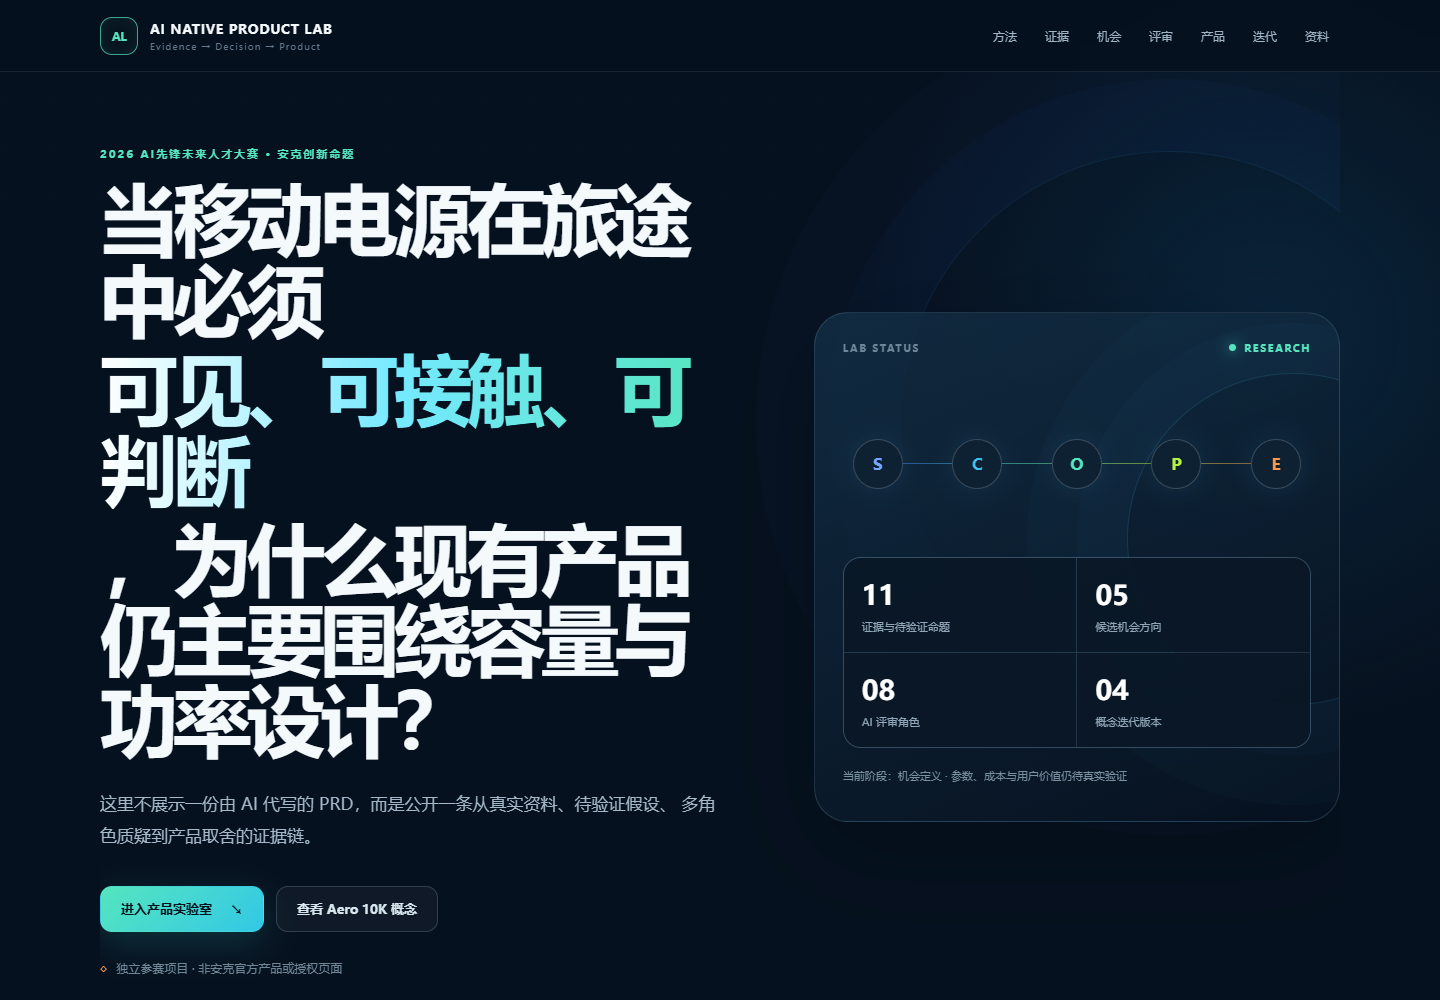
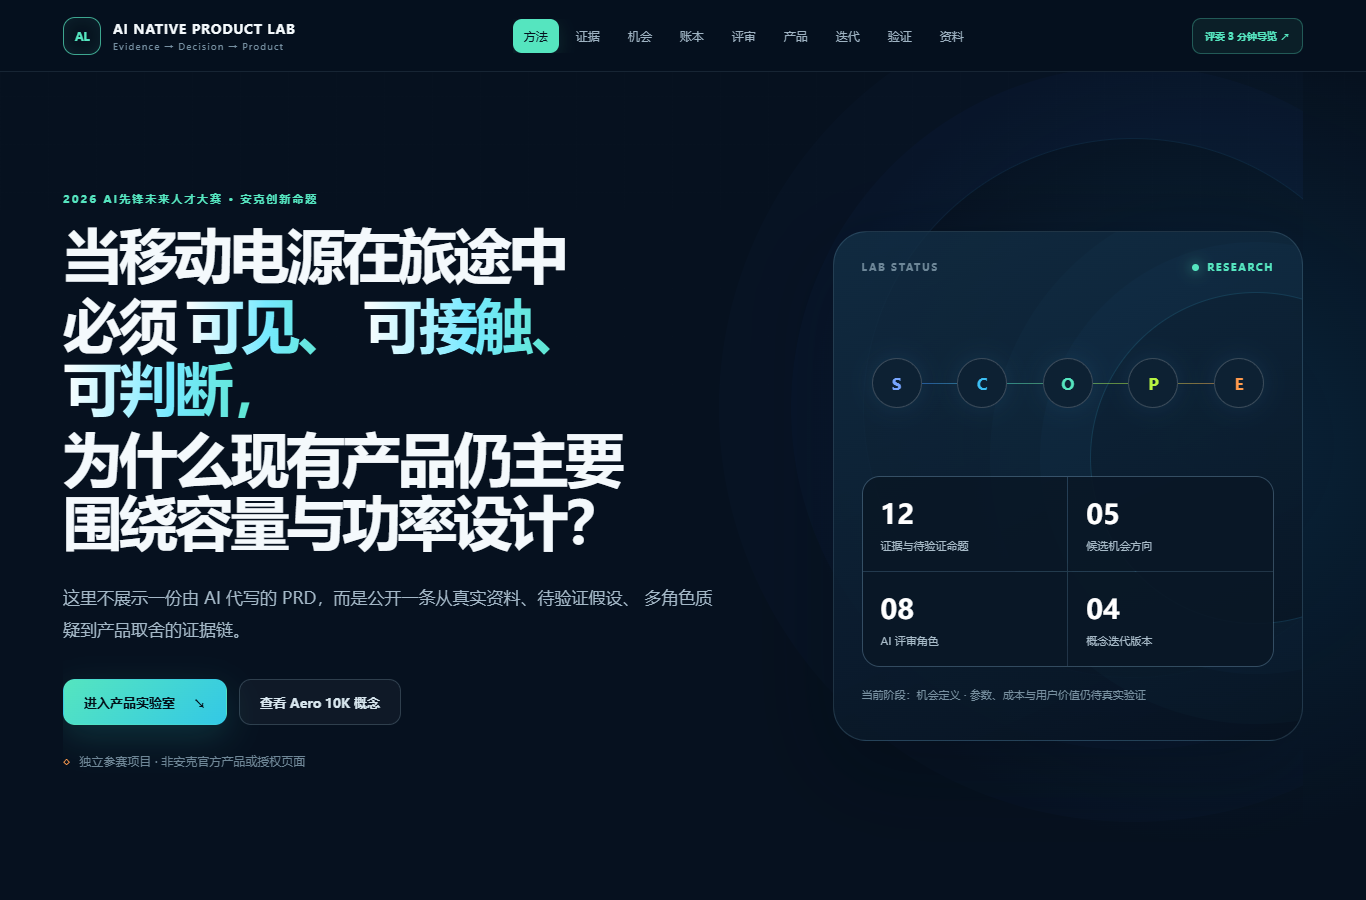
docs: publish credibility evidence and visual audit

diff --git a/src/styles.css b/src/styles.css
@@ -46,11 +46,14 @@ img, svg { max-width: 100%; }
 .main-nav a:hover, .main-nav a:focus-visible { color: white; background: rgba(255,255,255,.06); }
 
 .hero, .section, .site-footer { width: min(1240px, calc(100% - 48px)); margin-inline: auto; }
-.hero { position: relative; display: grid; grid-template-columns: 1.08fr .92fr; align-items: center; gap: clamp(42px, 7vw, 96px); min-height: calc(100svh - 72px); padding-block: 74px; overflow: clip; }
+.hero { position: relative; display: grid; grid-template-columns: 1.2fr .8fr; align-items: center; gap: clamp(36px, 5vw, 64px); min-height: calc(100svh - 72px); padding-block: 74px; overflow: clip; }
 .hero-glow { position: absolute; right: -100px; top: 8%; width: 540px; height: 540px; border: 1px solid rgba(50,150,220,.12); border-radius: 50%; box-shadow: 0 0 0 72px rgba(52,120,255,.026), 0 0 0 144px rgba(52,120,255,.018); pointer-events: none; }
 .eyebrow { margin: 0 0 16px; color: var(--mint); font-size: 11px; font-weight: 800; letter-spacing: .18em; text-transform: uppercase; }
-.hero h1 { max-width: 720px; margin: 0; font-size: clamp(2.5rem, 4.8vw, 4.65rem); line-height: 1.06; letter-spacing: -.05em; }
-.hero h1 span { display: block; margin-block: 8px; background: linear-gradient(90deg, #ffffff 0%, #76e9ff 48%, #55e5bf 100%); background-clip: text; color: transparent; }
+.hero h1 { max-width: 720px; margin: 0; font-size: clamp(2.3rem, 4.3vw, 4.1rem); line-height: 1.08; letter-spacing: -.05em; }
+.hero h1 .hero-line { display: block; }
+.hero h1 .hero-must { display: flex; flex-wrap: wrap; column-gap: .18em; margin-block: 7px; }
+.hero h1 .hero-word-plain, .hero h1 .hero-phrase { display: inline-block; white-space: nowrap; }
+.hero h1 .hero-phrase { background: linear-gradient(90deg, #ffffff 0%, #76e9ff 48%, #55e5bf 100%); background-clip: text; color: transparent; }
 .hero-lead { max-width: 650px; margin: 28px 0 0; color: #a4b8c7; font-size: 17px; line-height: 1.9; }
 .hero-actions { display: flex; flex-wrap: wrap; gap: 12px; margin-top: 34px; }
 .button { display: inline-flex; min-height: 46px; align-items: center; justify-content: center; gap: 18px; padding: 0 20px; border: 1px solid transparent; border-radius: 12px; cursor: pointer; font-weight: 750; font-size: 13px; text-decoration: none; transition: .2s ease; }
@@ -540,7 +543,7 @@ input[type="range"] { accent-color: var(--mint); cursor: pointer; }
 
 @media (max-width: 760px) {
   .tour-launch { width: 100%; margin-top: 8px; }
-  .hero h1 { font-size: clamp(2.1rem, 10vw, 3.25rem); letter-spacing: -.045em; }
+  .hero h1 { font-size: clamp(1.95rem, 8.2vw, 2.15rem); letter-spacing: -.045em; }
   .evidence-counts, .sensitivity-heading, .ledger-truth-banner, .matrix-heading, .validation-disclosure { align-items: flex-start; flex-direction: column; }
   .evidence-counts span, .sensitivity-heading > p { text-align: left; }
   .severity-rubric ol { grid-template-columns: 1fr; }

diff --git a/src/components/Hero.tsx b/src/components/Hero.tsx
@@ -10,10 +10,16 @@ export const Hero = () => (
     <div className="hero-glow" aria-hidden="true" />
     <div className="hero-copy">
       <p className="eyebrow">2026 AI先锋未来人才大赛 · 安克创新命题</p>
-      <h1>
-        当移动电源在旅途中必须
-        <span>可见、可接触、可判断，</span>
-        为什么现有产品仍主要围绕容量与功率设计？
+      <h1 aria-label="当移动电源在旅途中必须可见、可接触、可判断，为什么现有产品仍主要围绕容量与功率设计？">
+        <span className="hero-line" aria-hidden="true">当移动电源在旅途中</span>
+        <span className="hero-line hero-must" aria-hidden="true">
+          <span className="hero-word-plain">必须</span>
+          <span className="hero-phrase">可见、</span>
+          <span className="hero-phrase">可接触、</span>
+          <span className="hero-phrase">可判断，</span>
+        </span>
+        <span className="hero-line" aria-hidden="true">为什么现有产品仍主要</span>
+        <span className="hero-line" aria-hidden="true">围绕容量与功率设计？</span>
       </h1>
       <p className="hero-lead">
         这里不展示一份由 AI 代写的 PRD，而是公开一条从真实资料、待验证假设、

diff --git a/src/components/Resources.tsx b/src/components/Resources.tsx
@@ -11,6 +11,8 @@ const downloads = [
   ['硬件工程师提示词', 'prompts/hardware-engineer.md', 'PROMPT'],
   ['合规专家提示词', 'prompts/compliance-expert.md', 'PROMPT'],
   ['红队评审提示词', 'prompts/red-team.md', 'PROMPT'],
+  ['离线复现脚本', 'pipeline/run_pipeline.py', 'PY'],
+  ['AI 运行清单', 'pipeline/runs/2026-07-19/run-manifest.json', 'JSON'],
 ]
 
 const references = [
@@ -18,6 +20,7 @@ const references = [
   ['Anker · Official Product Categories', '移动充电与连接产品能力', 'https://www.anker.com/'],
   ['安克创新 · 我们的品牌', '充电储能与品牌组合', 'https://www.anker.com.cn/brands'],
   ['The Verge · Nano Charging Station', '伸缩线与状态显示趋势', 'https://www.theverge.com/news/709301/anker-nano-charging-station-usb-retractable'],
+  ['Anker · Nano Power Bank A1638', '10,000mAh、45W、伸缩线、屏幕与温控反证', 'https://www.anker.com/products/a1638-10k-45w-power-bank'],
 ]
 
 export const Resources = () => (

diff --git a/src/components/App.test.tsx b/src/components/App.test.tsx
@@ -35,6 +35,7 @@ describe('product lab application', () => {
         name: /当移动电源在旅途中必须可见、可接触、可判断/,
       }),
     ).toBeInTheDocument()
+    expect(screen.getByText('可判断，', { selector: '.hero-phrase' })).toBeInTheDocument()
     expect(screen.getAllByText(/独立参赛项目/).length).toBeGreaterThan(0)
     expect(screen.getByText('12', { selector: '.signal-grid strong' })).toBeInTheDocument()
     expect(screen.getByLabelText('搜索证据')).toBeInTheDocument()

diff --git a/README.md b/README.md
@@ -35,24 +35,45 @@
 
 ## 可交互实验室
 
-- **Evidence Lab**：搜索并按场景、严重度和置信度筛选证据；公开资料、访谈命题和合成演示使用不同标签。
-- **Opportunity Map**：拖动 C/F/S/T/W/A/R 七项指标，实时查看评分和五个产品方向的基线比较。
-- **AI Council**：顺序播放八角色本地评审剧本，展示用户、工程、供应链与合规之间的真实冲突。
-- **Product Concept**：用原创 SVG/CSS 呈现 Aero 10K 的状态屏、温感环、伸缩线与夹扣概念。
-- **Evolution**：把 V0–V3 的问题、证据 ID 和产品修改连成一条决策链。
-- **Resources**：下载研究说明、SCOPE 方法、访谈提纲、证据 CSV 和五个角色提示词。
+- **Evidence Lab**：检索 12 条证据，显示 1–5 分标尺，并区分规则、能力、竞品、反证、访谈命题和 AI 挑战。
+- **Opportunity Map**：拖动 C/F/S/T/W/A/R 七项指标，并用均衡、安全优先、商业优先三组权重检查排名稳定性。
+- **Decision Ledger**：公开一次 Codex 运行的输入、Prompt、模型边界、原始输出、30→10→5→1 漏斗、人工状态和决策理由。
+- **AI Council**：聚焦当前角色与已完成结论；完整八角色录制输出可展开审计，不冒充实时模型或专家意见。
+- **Product Concept**：将 Aero 10K 与现有 A1638 对照，明确已有能力与三项待验证的任务差异。
+- **Validation Board**：预注册四项真实用户/工程验证的成功门槛、当前状态和失败后的产品决策。
+- **Reviewer Tour**：用五站、三分钟路径把评委带过证据、AI 运行、冲突、产品变化和下一步验证。
 
 | Evidence Lab | Opportunity Map |
 | --- | --- |
 | ![证据库](docs/screenshots/02-evidence-lab.png) | ![机会评分台](docs/screenshots/03-opportunity-map.png) |
 
-| AI Council | Product Concept |
+| AI 运行与决策账本 | AI Council |
 | --- | --- |
-| ![多智能体评审](docs/screenshots/04-ai-council.png) | ![产品概念](docs/screenshots/05-product-concept.png) |
+| ![决策账本](docs/screenshots/04-decision-ledger.png) | ![多智能体评审](docs/screenshots/05-ai-council.png) |
+
+| Product Concept | Validation Board |
+| --- | --- |
+| ![产品概念与竞品差异](docs/screenshots/06-product-concept.png) | ![真实验证看板](docs/screenshots/07-validation-board.png) |
 
 移动端已单独验证：
 
-<img src="docs/screenshots/06-mobile.png" alt="移动端首页" width="320" />
+<img src="docs/screenshots/08-mobile.png" alt="移动端首页" width="320" />
+
+## 可审计 AI 运行
+
+站点不是只画一张多智能体流程图。仓库保存了 2026-07-19 的输入、Prompt、原始机会、聚类、评审记录与人工决策账本：
+
+```text
+12 条证据 → 30 个原始方向 → 10 个主题聚类 → 5 个候选 → 1 个工作概念
+```
+
+模型记录为 `OpenAI Codex (GPT-5 family)`；精确服务端快照未向客户端暴露，因此没有虚构具体版本。作者最终确认目前仍是 `pending_author_confirmation`。
+
+```bash
+python run_pipeline.py --demo
+```
+
+该命令是确定性的**离线重放**：不会联网或调用模型，只把已提交的录制输出重新生成为可比较 JSON。详见 [运行清单](pipeline/runs/2026-07-19/run-manifest.json) 和 [决策账本](pipeline/runs/2026-07-19/decision-ledger.json)。
 
 ## 机会评分
 
@@ -64,12 +85,13 @@ O = C × (0.25F + 0.25S + 0.15T + 0.15W + 0.20A) - R
 
 ## 数据真实性声明
 
-当前站点包含 11 张研究卡：6 张来自可回溯公开网页，3 张明确标注为“访谈待验证”，2 张明确标注为“合成演示”。本项目没有声称已经完成用户访谈，也没有把 AI 用户代理当成真实用户。
+当前站点包含 12 张研究卡：7 张来自可回溯公开网页，3 张明确标注为“访谈待验证”，2 张明确标注为“合成演示”。其中 [A1638 官方资料](https://www.anker.com/products/a1638-10k-45w-power-bank) 被专门标为反对证据：现有产品已经具备 10,000mAh、45W、伸缩线、智能显示和 ActiveShield 温控，所以这些能力不能被包装成 Aero 10K 的创新。本项目没有声称已经完成用户访谈，也没有把 AI 用户代理当成真实用户。
 
 - 公开资料附来源 URL 与访问日期 `2026-07-19`。
 - 无真实来源的内容不会伪装成用户原话。
-- AI Council 是工作流演示，不是实时大模型输出或专家意见。
+- AI Council 是已记录 AI 运行的交互展示，不是实时大模型调用，也不是专家或用户研究。
 - 所有容量、功率、热、结构与价格相关结论都需要后续工程或用户验证。
+- 四项真实验证当前全部为 `NOT_RUN`；成功门槛是预注册标准，不是已取得的结果。
 - 航空携带和使用要求以承运人最新规定为准。
 
 详见 [研究说明](docs/research-notes.md) 与 [证据卡 CSV 模板](docs/evidence-template.csv)。
@@ -82,6 +104,7 @@ O = C × (0.25F + 0.25S + 0.15T + 0.15W + 0.20A) - R
 - Vitest + Testing Library
 - GitHub Actions + GitHub Pages
 - 纯前端静态数据，不需要 API Key 或服务器
+- Python 3 离线审计脚本（标准库，无额外依赖）
 
 ## 本地运行
 
@@ -99,6 +122,8 @@ Vite 会在 `/anker-ai-native-product-lab/` 子路径提供开发页面。
 ```bash
 npm test -- --run
 npm run build
+python -m unittest discover -s pipeline/tests -p "test_*.py"
+python run_pipeline.py --demo
 ```
 
 测试覆盖评分公式、输入边界、证据组合筛选、Pages 资源路径、数据来源约束和关键交互。生产构建输出到 `dist/`。
@@ -107,6 +132,7 @@ npm run build
 
 ```text
 src/                  React 页面、交互、数据与测试
+pipeline/             录制 AI 运行、Prompt、决策账本与离线重放脚本
 docs/                 方法、研究记录、访谈提纲与截图
 prompts/              五个可复用 AI 角色提示词
 public/docs/          网站可下载的 PDF 与研究材料
@@ -121,6 +147,8 @@ public/prompts/       网站可下载的提示词
 3. 用纸模验证包带夹扣的安装、查看、取用和收纳任务。
 4. 用价格阶梯验证整体方案与单项功能的支付意愿。
 5. 完成热仿真、线材回卷寿命、结构公差、样机温升与承运人规则复核。
+
+页面已为这些假设预注册成功门槛和不通过后的产品决策；在真实测试完成前，不会把它们写成已验证洞察。
 
 ## 项目声明
 

diff --git a/docs/research-notes.md b/docs/research-notes.md
@@ -9,6 +9,9 @@
 3. Anker 美国官网列出移动电源、充电器、无线充、线材、AC 电源和扩展坞等产品分类，说明航旅移动电源与既有能力相邻。[Anker US](https://www.anker.com/)
 4. 安克创新品牌页把 Anker 与 Anker SOLIX 归入“充电储能”板块。[安克创新品牌页](https://www.anker.com.cn/brands)
 5. The Verge 2025 年报道的 Anker Nano Charging Station 已包含双伸缩 USB-C 线和显示端口功率的 LCD，说明“伸缩线＋屏幕”本身不是未被使用过的功能组合。[The Verge](https://www.theverge.com/news/709301/anker-nano-charging-station-usb-retractable)
+6. Anker Nano Power Bank A1638 官方页已经列出 10,000mAh、45W、伸缩 USB-C 线、智能显示与 ActiveShield 温控。这是反对 Aero 10K 新颖性的关键证据：容量、功率、伸缩线、屏幕和内部温控均不能被当作新概念的差异点。[Anker A1638](https://www.anker.com/products/a1638-10k-45w-power-bank)
+
+当前证据库共 12 条：7 条公开证据、3 条待访谈验证命题、2 条 AI 合成挑战。公开证据还会按“规则约束、品牌能力、竞品证据、反对证据”区分角色，避免只收集支持概念的材料。
 
 ## 待验证假设
 
@@ -23,6 +26,12 @@
 
 AI Council 的角色发言是本地合成剧本，用于展示多角色工作流如何形成冲突和产品修改。它不能作为用户人数、偏好比例、工程结论或合规意见的证据。
 
+## 已记录的 AI 运行
+
+仓库保留了 2026-07-19 的 Codex 运行清单、30 个原始机会方向、10 个主题聚类、5 个入围候选、8 角色评审记录和人工决策账本。模型标签为 `OpenAI Codex (GPT-5 family)`；客户端无法获得精确服务端快照，因此没有虚构更细的版本号。作者最终确认状态仍为 `pending_author_confirmation`。
+
+`python run_pipeline.py --demo` 只离线重放已经提交的记录，并生成可比较的 JSON 文件；它不会联网，也不会重新调用模型。该命令用于审计数据流，不用于把录制输出伪装成实时 AI。
+
 ## 下一轮研究门
 
 1. 招募至少 10 名近期有长途出行经历的参与者，先询问最近一次行为，再展示概念。
@@ -30,3 +39,5 @@ AI Council 的角色发言是本地合成剧本，用于展示多角色工作流
 3. 用纸模测试包带夹扣的安装、查看、取用和收纳任务。
 4. 用价格阶梯测试整体方案和单项功能的支付意愿。
 5. 在产品立项前完成热仿真、结构寿命、线材回卷和承运人规则审查。
+
+所有真实验证目前均为 `NOT_RUN`。页面上的成功门槛是预注册判据，不是已经取得的研究结果；每个假设同时记录“不通过后的产品决策”。

diff --git a/public/docs/research-notes.md b/public/docs/research-notes.md
@@ -9,6 +9,9 @@
 3. Anker 美国官网列出移动电源、充电器、无线充、线材、AC 电源和扩展坞等产品分类，说明航旅移动电源与既有能力相邻。[Anker US](https://www.anker.com/)
 4. 安克创新品牌页把 Anker 与 Anker SOLIX 归入“充电储能”板块。[安克创新品牌页](https://www.anker.com.cn/brands)
 5. The Verge 2025 年报道的 Anker Nano Charging Station 已包含双伸缩 USB-C 线和显示端口功率的 LCD，说明“伸缩线＋屏幕”本身不是未被使用过的功能组合。[The Verge](https://www.theverge.com/news/709301/anker-nano-charging-station-usb-retractable)
+6. Anker Nano Power Bank A1638 官方页已经列出 10,000mAh、45W、伸缩 USB-C 线、智能显示与 ActiveShield 温控。这是反对 Aero 10K 新颖性的关键证据：容量、功率、伸缩线、屏幕和内部温控均不能被当作新概念的差异点。[Anker A1638](https://www.anker.com/products/a1638-10k-45w-power-bank)
+
+当前证据库共 12 条：7 条公开证据、3 条待访谈验证命题、2 条 AI 合成挑战。公开证据还会按“规则约束、品牌能力、竞品证据、反对证据”区分角色，避免只收集支持概念的材料。
 
 ## 待验证假设
 
@@ -23,6 +26,12 @@
 
 AI Council 的角色发言是本地合成剧本，用于展示多角色工作流如何形成冲突和产品修改。它不能作为用户人数、偏好比例、工程结论或合规意见的证据。
 
+## 已记录的 AI 运行
+
+仓库保留了 2026-07-19 的 Codex 运行清单、30 个原始机会方向、10 个主题聚类、5 个入围候选、8 角色评审记录和人工决策账本。模型标签为 `OpenAI Codex (GPT-5 family)`；客户端无法获得精确服务端快照，因此没有虚构更细的版本号。作者最终确认状态仍为 `pending_author_confirmation`。
+
+`python run_pipeline.py --demo` 只离线重放已经提交的记录，并生成可比较的 JSON 文件；它不会联网，也不会重新调用模型。该命令用于审计数据流，不用于把录制输出伪装成实时 AI。
+
 ## 下一轮研究门
 
 1. 招募至少 10 名近期有长途出行经历的参与者，先询问最近一次行为，再展示概念。
@@ -30,3 +39,5 @@ AI Council 的角色发言是本地合成剧本，用于展示多角色工作流
 3. 用纸模测试包带夹扣的安装、查看、取用和收纳任务。
 4. 用价格阶梯测试整体方案和单项功能的支付意愿。
 5. 在产品立项前完成热仿真、结构寿命、线材回卷和承运人规则审查。
+
+所有真实验证目前均为 `NOT_RUN`。页面上的成功门槛是预注册判据，不是已经取得的研究结果；每个假设同时记录“不通过后的产品决策”。
